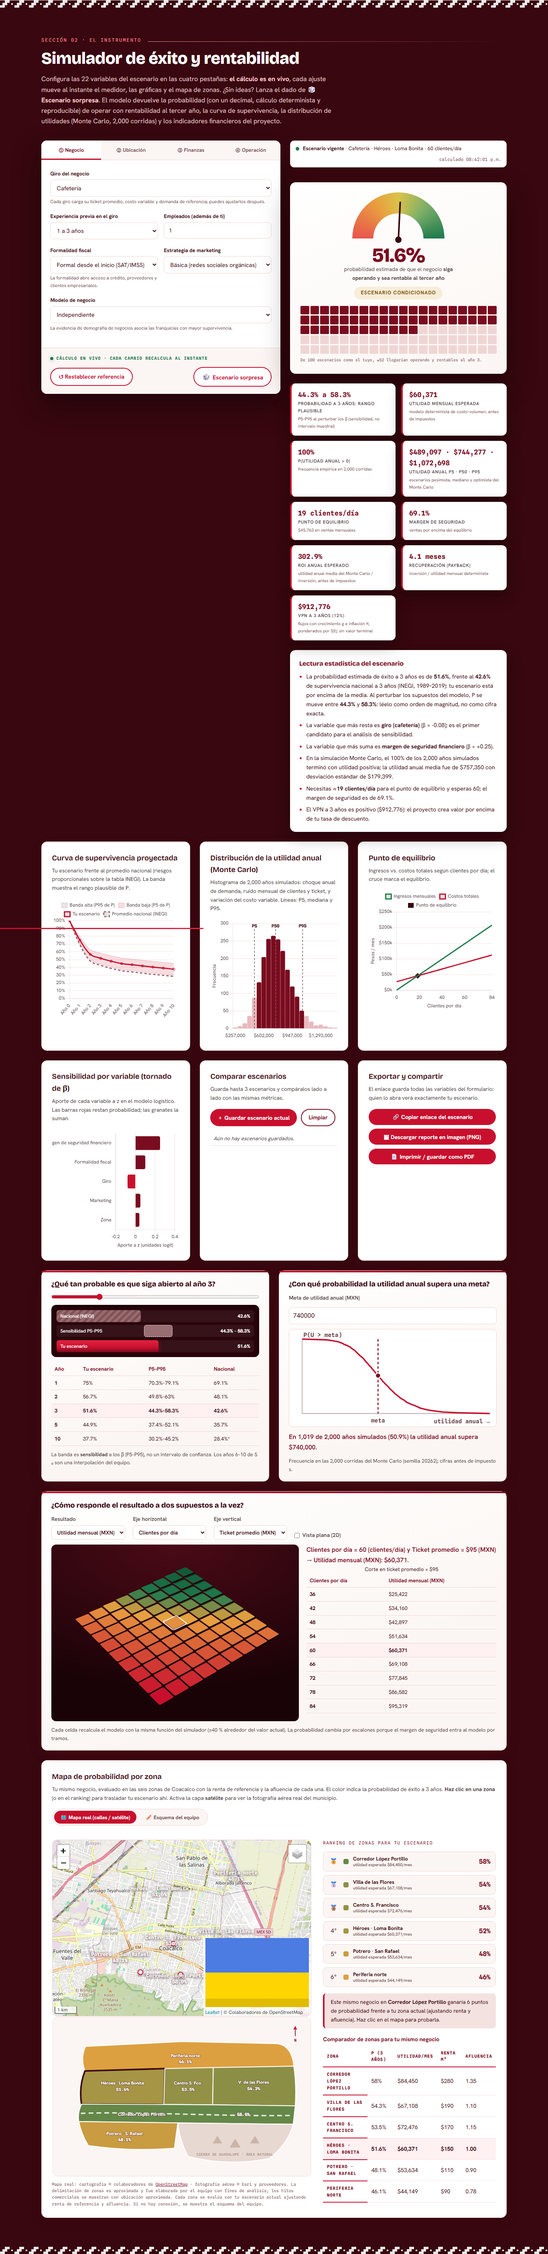
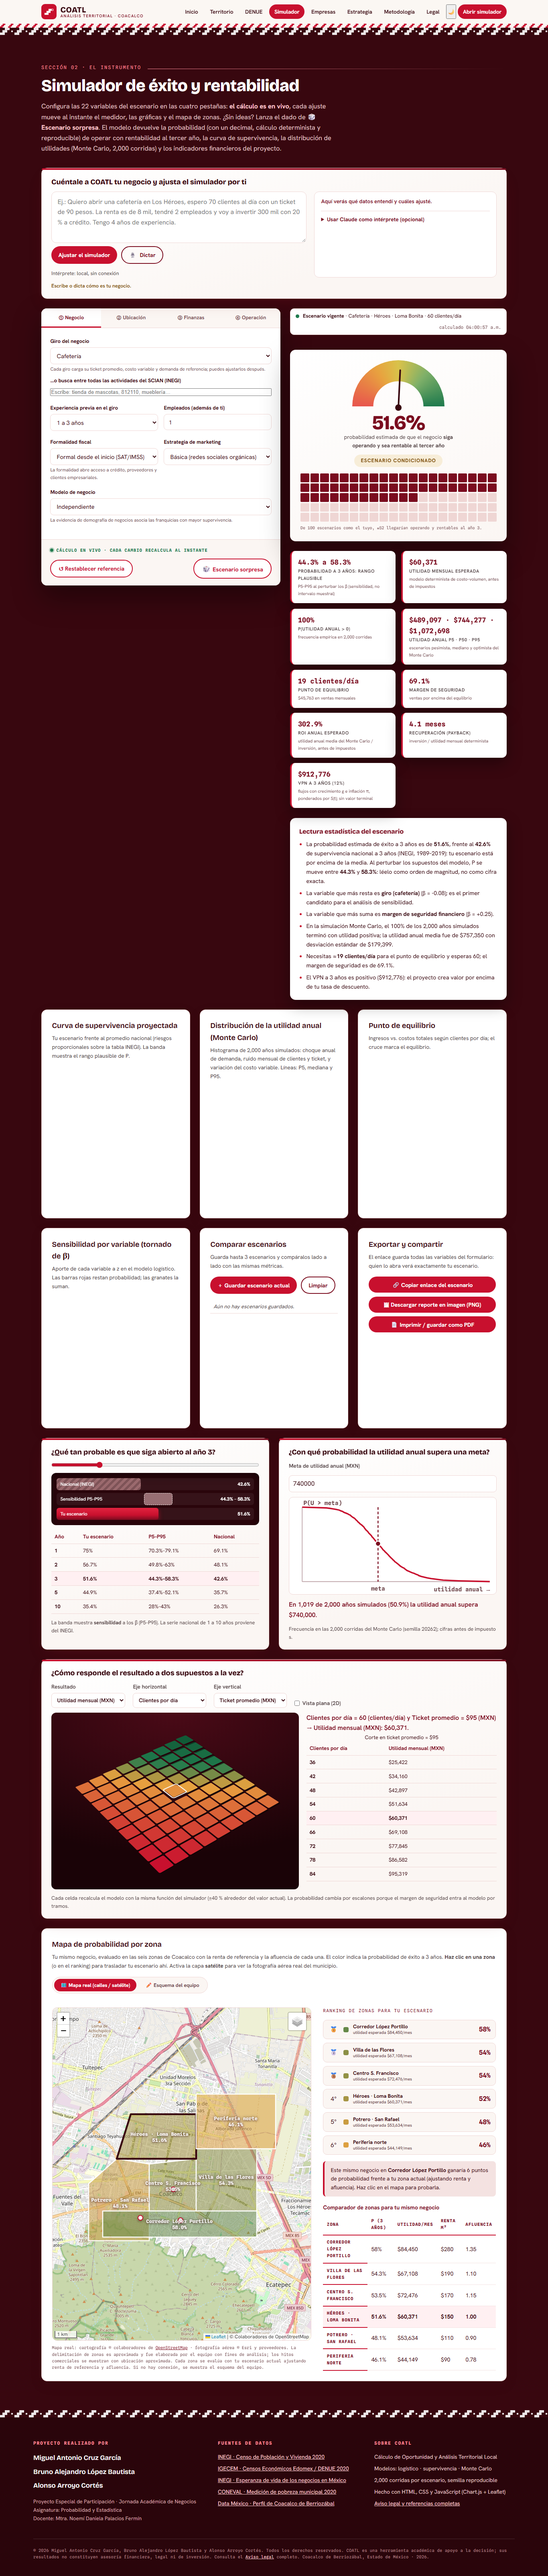
Capturas completas por apartado en el README y prueba de Empresas estable

diff --git a/tests/e2e/denue-empresas.spec.js b/tests/e2e/denue-empresas.spec.js
@@ -39,7 +39,7 @@ const CSV = ['mes,ventas,clientes,costo_variable,costos_fijos',
     `2025-${String(i + 1).padStart(2, '0')},${v * 1000},${Math.round(v * 1000 / 95)},${Math.round(v * 410)},27000`)].join('\n');
 
 test('Empresas: analiza un CSV sin hacer ninguna petición de red', async ({ page }) => {
-  await ir(page);
+  await page.goto('/#empresas', { waitUntil: 'domcontentloaded' });
   await page.locator('#empresas').scrollIntoViewIfNeeded();
   await page.waitForTimeout(1500);
   const peticiones = [];
@@ -52,12 +52,13 @@ test('Empresas: analiza un CSV sin hacer ninguna petición de red', async ({ pag
   expect(peticiones).toEqual([]);
   await page.click('#empAplicar');
   await expect(page.locator('#ticket')).toHaveValue('95');
+  await page.evaluate(() => { location.hash = '#empresas'; });  // aplicar abre la página del simulador
   await page.click('#empBorrar');
   await expect(page.locator('#empResultados')).toBeHidden();
 });
 
 test('Empresas: archivo inválido muestra un error claro', async ({ page }) => {
-  await ir(page);
+  await page.goto('/#empresas', { waitUntil: 'domcontentloaded' });
   await page.setInputFiles('#empArchivo', { name: 'malo.csv', mimeType: 'text/csv', buffer: Buffer.from('mes,ventas\n2025-01,10') });
   await expect(page.locator('#wEmpresa')).toHaveAttribute('data-estado', 'error');
   await expect(page.locator('#wEmpresa-estado')).toContainText('Faltan columnas');

diff --git a/README.md b/README.md
@@ -7,9 +7,7 @@ Simulador estadístico que estima la **probabilidad de que un negocio siga opera
 **Autores:** Miguel Antonio Cruz García · Bruno Alejandro López Bautista · Alonso Arroyo Cortés
 **Materia:** Probabilidad y Estadística · Mtra. Noemí Daniela Palacios Fermín · Jornada Académica Empresarial 2026
 
-![Inicio de COATL](docs/capturas/inicio.png)
-
-![Recorrido exploratorio](docs/capturas/explorar.png)
+![Inicio de COATL: página completa](docs/capturas/inicio.png)
 
 ## Qué hace
 
@@ -26,7 +24,45 @@ Simulador estadístico que estima la **probabilidad de que un negocio siga opera
 | Para empresas | Carga confidencial de CSV/Excel: el análisis corre solo en el navegador, con bootstrap de los meses propios |
 | Herramientas | Comparar 3 escenarios, compartir por URL, exportar PNG/PDF, restablecer referencia |
 
+### Capturas completas por apartado
+
+Cada imagen es la página entera, sin cortes (`node scripts/capturas.mjs --sitio`).
+
+<details><summary><b>Simulador</b> · página completa</summary>
+
 ![Simulador](docs/capturas/simulador.png)
+
+</details>
+
+<details><summary><b>Territorio</b> · página completa</summary>
+
+![Territorio](docs/capturas/territorio.png)
+
+</details>
+
+<details><summary><b>DENUE</b> · página completa</summary>
+
+![DENUE](docs/capturas/denue.png)
+
+</details>
+
+<details><summary><b>Empresas</b> · página completa</summary>
+
+![Empresas](docs/capturas/empresas.png)
+
+</details>
+
+<details><summary><b>Estrategia</b> · página completa</summary>
+
+![Estrategia](docs/capturas/estrategia.png)
+
+</details>
+
+<details><summary><b>Metodología</b> · página completa</summary>
+
+![Metodología](docs/capturas/metodologia.png)
+
+</details>
 
 ## Funciones principales (v6)
 
